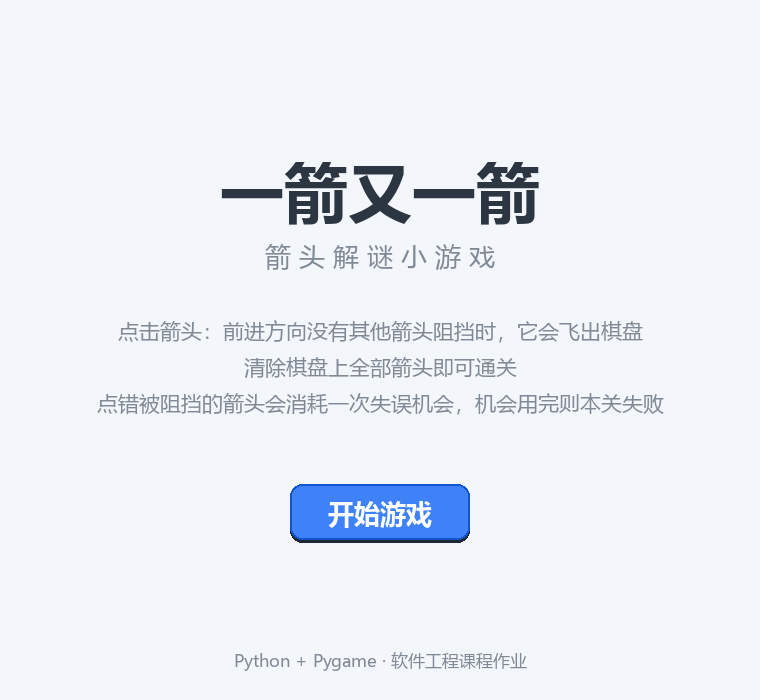
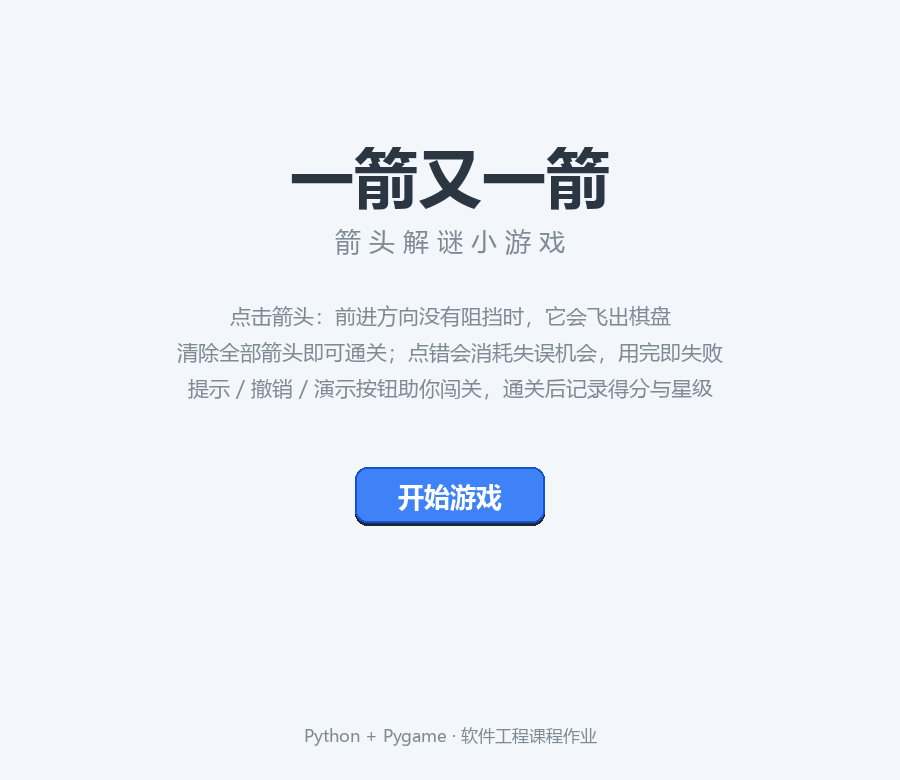
docs: 更新README和博客并重新生成截图

Changed region(s): [[0.1211, 0.18, 0.8776, 0.78], [0.3026, 0.93, 0.6961, 0.96]]

diff --git a/博客.md b/博客.md
@@ -16,21 +16,25 @@
 
 ![开始界面](screenshots/01_start.png)
 
-游戏界面（第二关，顶部显示关卡名、剩余箭头、剩余失误，下方为提示/重新开始/主菜单按钮）：
+关卡选择界面（8 个关卡 + 无尽模式，卡片上显示历史最佳星级与解锁进度）：
 
-![游戏界面](screenshots/02_playing.png)
+![关卡选择](screenshots/02_level_select.png)
 
-碰撞反馈：点击被阻挡的箭头后，箭头原地晃动并闪烁红色，弹出"被阻挡！"提示，同时圈出阻挡它的那支箭头，失误次数 -1：
+游戏界面（顶部 HUD 显示关卡、用时、实时得分、剩余箭头与失误；底部为提示/撤销/演示/重新开始/主菜单按钮）：
 
-![碰撞反馈](screenshots/03_collision.png)
+![游戏界面](screenshots/03_playing.png)
 
-通关界面（按剩余失误机会给出星级评价）：
+碰撞反馈：点击被阻挡的箭头后，箭头原地晃动并摇摆、格子红色闪烁，弹出"被阻挡！"提示，同时圈出阻挡它的那支箭头，失误次数 -1：
 
-![通关界面](screenshots/04_win.png)
+![碰撞反馈](screenshots/04_collision.png)
+
+通关界面（得分、用时与星级评价）：
+
+![通关界面](screenshots/05_win.png)
 
 失败界面：
 
-![失败界面](screenshots/05_fail.png)
+![失败界面](screenshots/06_fail.png)
 
 第一关自动通关演示 GIF：
 
@@ -53,13 +57,23 @@
 
 ### 主要功能和特色
 
+**基础功能**：
 - **路径检测**：四方向逐格探测，正确区分"前方阻挡"与"身后箭头"；
-- **碰撞反馈**：晃动 + 红色闪烁 + 浮动文字 + 圈出阻挡箭头，四种提示叠加，一眼看懂为什么点不动；
-- **提示功能**：内置求解器，可高亮一支当前安全的箭头（附加功能）；
-- **星级评价**：通关后按剩余失误机会给出 1~3 星（附加功能）；
+- **碰撞反馈**：晃动 + 摇摆 + 红色闪烁 + 浮动文字 + 圈出阻挡箭头，五种提示叠加，一眼看懂为什么点不动；
 - **程序合成音效**：飞出、碰撞、通关、失败音效全部由代码实时合成，无任何外部素材；
 - **关卡可解性验证**：每个关卡都经过自动化测试确认存在可行消除顺序；
 - **纯逻辑与界面分离**：核心逻辑不依赖 pygame，可独立单元测试。
+
+**扩展功能（附加分）**：
+- **关卡选择**：8 个关卡 + 选择界面，卡片显示星级与解锁进度，通关推进解锁；
+- **得分、计时与星级**：HUD 实时显示用时和得分（消除数 × 50 + 时间奖励 + 剩余失误奖励），通关界面展示成绩并记录历史最佳；
+- **提示功能**：内置求解器，高亮一支当前安全的箭头；
+- **撤销上一步**：每次点击前压入状态快照，一键撤销（恢复箭头和失误次数）；
+- **保存游戏进度**：save.json 自动保存解锁进度、最佳成绩和进行到一半的对局，开始界面提供"继续游戏"；
+- **随机生成可通关的关卡**：逆序放置算法保证生成关卡必然可解，作为"无尽模式"无限挑战；
+- **AI 自动求解**："演示"按钮让求解器自动演示当前关卡的完整通关步骤；
+- **动画与音效**：飞出拖尾 + 旋转 + 粒子爆发，碰撞晃动 + 摇摆 + 红闪；
+- **打包 exe**：PyInstaller 一键打包为免环境可执行文件。
 
 ## 三、实现思路
 
@@ -153,11 +167,42 @@ def solve(level):
 
 ### 3.5 动画实现
 
-- **飞出**：`FlyingArrow` 记录起点和方向，位置按 `k = 1 - (1 - t/T)^2` 缓动（先快后慢），最后 40% 路程逐渐淡出；
-- **碰撞**：`Collision` 让箭头原地做 `sin(t·55)·5·(1-k)` 的衰减正弦晃动，前 0.18 秒叠加红色半透明闪烁，另有 `FloatText` 上浮淡出文字和橙色圈标出阻挡箭头；
+- **飞出**：`FlyingArrow` 记录起点和方向，位置按 `k = 1 - (1 - t/T)^2` 缓动（先快后慢），飞行中整体旋转 180°，身后跟两个逐渐变小的残影形成拖尾，起点处爆发 8 个带重力粒子，最后 40% 路程逐渐淡出；
+- **碰撞**：`Collision` 让箭头原地做 `sin(t·55)·7·(1-k)` 的衰减正弦晃动并叠加 ±10° 摇摆，红色半透明闪烁画在**箭头下层**（保证箭头始终清晰可见，不会看起来像"消失"），另有 `FloatText` 上浮淡出文字和橙色脉动圈标出阻挡箭头；
 - **通关**：`WinScene` 喷射 50 个带重力的彩色粒子。
 
 箭头图形本身由代码绘制（朝右的底图 + 按方向旋转），音效由代码实时合成（正弦/方波 + 指数衰减包络），全程零外部素材。
+
+### 3.6 随机生成可通关的关卡
+
+无尽模式的关卡由"**逆序放置**"算法生成：按消除顺序的**逆序**逐支放置箭头，放置每支箭头时要求它的正前方路径上没有已放置的箭头。由于已放置的箭头都会在它之后才被消除，新箭头在自己的回合必然能飞出；放置完成时，**放置顺序的逆序就是一条合法的通关顺序**：
+
+```python
+def generate_random_level(grid_rows, grid_cols, count, rng):
+    placed = {}   # 已放置的箭头
+    arrows = []
+    for _ in range(count):
+        cells = [(r, c) for r in range(grid_rows) for c in range(grid_cols)
+                 if (r, c) not in placed]
+        rng.shuffle(cells)
+        for r, c in cells:
+            for d in rng.sample([UP, DOWN, LEFT, RIGHT], 4):
+                arrow = Arrow(r, c, d)
+                if find_blocker(placed, arrow, grid_rows, grid_cols) is None:
+                    arrows.append(arrow)
+                    placed[(r, c)] = arrow
+                    break
+            ...
+    return Level("无尽模式", grid_rows, grid_cols, arrows)
+```
+
+这个生成器一鱼三吃：单元测试对 20 组随机种子验证了"生成即必可解"的性质；第 6~8 关就是用它配合固定种子生成后人工挑选的；无尽模式则用它实时出题。
+
+### 3.7 撤销、存档与得分
+
+- **撤销**：`Game.click()` 在每次有效点击前把 `(棋盘快照, 失误数, 状态)` 压入历史栈（上限 200 条），`undo()` 弹栈还原。点击空格不产生历史，重新开始会清空历史；
+- **存档**：`game/save.py` 用 JSON 保存解锁进度、每关最佳星级/得分、无尽模式最高分以及进行到一半的对局（`mid_level`）。每次有效点击后序列化棋盘（箭头坐标+方向、失误数、用时），开始界面的"继续游戏"据此恢复；打包成 exe 后存档自动改存 exe 所在目录；
+- **得分**：`得分 = 消除数×50 + max(0, 600 - 用时×12) + 剩余失误×80`，通关时按失误次数折算 1~3 星，HUD 实时刷新。
 
 ## 四、AIGC 使用过程
 
@@ -189,9 +234,15 @@ def solve(level):
 | ------ | ------------------ | ------------------- | -------- | -------- |
 | 动画、音效与截图工具 | Claude Code | 实现四个场景的状态机、飞出/碰撞/粒子特效、程序合成音效、无头截图与 GIF 生成脚本 | 基本可用；调试中发现两个问题：① 碰撞截图的场景对象未切换到截图工具；② PIL 保存 GIF 时"与前一帧相同的帧"会被合并 | 修复场景切换 bug；确认 GIF 帧合并是 PIL 的优化行为（时长会累加到上一帧），播放节奏不受影响，保留该行为 |
 
+### 记录 5：扩展功能开发（附加分）
+
+| 子任务 | 借助何种 AIGC 技术 | AI 实现或提供了什么 | 效果如何 | 人工修改 |
+| ------ | ------------------ | ------------------- | -------- | -------- |
+| 关卡选择/得分/撤销/存档/随机生成/AI 演示/打包 | Claude Code | 设计并实现关卡选择界面、得分计时公式、撤销历史栈、save.json 存档、逆序放置随机生成算法、"演示"自动求解按钮、PyInstaller 打包脚本；补充对应单元测试 | 新增 20 个测试全部通过；冒烟测试覆盖选择→通关→撤销→演示→无尽→断点续玩→失败全流程；打包出可独立运行的 exe | 用固定种子挑选第 6~8 关布局并逐一试玩；得分公式的边界用例（未消除任何箭头时得分下限）在测试中发现与预期不符，修正测试断言并确认公式行为合理 |
+
 ## 五、测试结果
 
-采用**自动化测试**（`python -m unittest discover -s tests -v`），共 14 个用例，覆盖作业要求的全部测试项：
+采用**自动化测试**（`python -m unittest discover -s tests -v`），共 34 个用例，覆盖作业要求的全部测试项：
 
 | 编号 | 测试内容 | 预期结果 | 实际结果 | 是否通过 |
 | ---- | -------- | -------- | -------- | -------- |
@@ -201,12 +252,18 @@ def solve(level):
 | T04 | 消除本关全部箭头 | 显示通关并进入下一关 | 状态变为 cleared，剩余 0 | ✅ 通过 |
 | T05 | 失误次数耗尽 | 显示失败并允许重新开始 | 状态变为 failed，失误归零 | ✅ 通过 |
 | T06 | 游戏进行中重新开始 | 箭头布局和失误次数恢复 | 布局与失误次数完全复原 | ✅ 通过 |
-| T07 | 每个关卡存在通关顺序 | 5 个关卡全部可解 | 求解器为每关找到完整消除顺序 | ✅ 通过 |
+| T07 | 每个关卡存在通关顺序 | 8 个关卡全部可解 | 求解器为每关找到完整消除顺序 | ✅ 通过 |
 | T08 | 求解序列逐步合法性 | 每步点击的箭头当时均无阻挡 | 逐步模拟全部合法，最后清空 | ✅ 通过 |
+| T09 | 撤销上一步 | 恢复被消除的箭头和已消耗的失误 | 碰撞后撤销恢复失误，飞出后撤销恢复箭头 | ✅ 通过 |
+| T10 | 撤销边界情况 | 无历史时撤销返回失败；空格点击不产生历史 | 行为符合预期 | ✅ 通过 |
+| T11 | 随机生成关卡可解 | 任意种子生成的关卡都有通关顺序 | 20 组随机种子全部可解，箭数正确 | ✅ 通过 |
+| T12 | 得分计算 | 用时越短、失误越少得分越高，且非负 | 各边界用例符合预期 | ✅ 通过 |
+| T13 | 存档读写 | 保存后能完整读回，缺文件/损坏时回退默认 | 读写往返一致，容错正常 | ✅ 通过 |
 | 附加 | 互相阻挡的环（A↔B） | 求解器判定不可解 | 正确返回无解 | ✅ 通过 |
 | 附加 | 点击空格 | 不消耗失误机会 | 无惩罚，状态不变 | ✅ 通过 |
+| 附加 | 扩展功能冒烟测试 | 关卡选择→通关→撤销→AI 演示→无尽模式→断点续玩→失败全流程正常 | 全部通过（含存档恢复） | ✅ 通过 |
 
-另外完成了手工测试：5 个关卡逐一实机试玩，确认难度递进合理、动画流畅、按钮功能正常（运行 `python main.py` 即可复现）。
+另外完成了手工测试：8 个关卡逐一实机试玩，确认难度递进合理、动画流畅、按钮功能正常（运行 `python main.py` 即可复现）。
 
 ## 六、PSP 表格
 
@@ -217,21 +274,24 @@ def solve(level):
 | 游戏界面实现 | 4.0 | 3.0 | -1.0 |
 | 路径与碰撞逻辑实现 | 3.0 | 2.5 | -0.5 |
 | 关卡设计 | 1.5 | 2.0 | +0.5 |
-| AIGC 辅助开发 | 3.0 | 4.0 | +1.0 |
-| 测试与修改 | 2.0 | 1.5 | -0.5 |
+| 扩展功能开发 | 4.0 | 4.5 | +0.5 |
+| AIGC 辅助开发 | 3.0 | 4.5 | +1.5 |
+| 测试与修改 | 2.0 | 2.5 | +0.5 |
 | README 与博客撰写 | 2.0 | 2.0 | 0 |
-| 合计 | 18.5 | 16.3 | -2.2 |
+| 合计 | 22.5 | 22.3 | -0.2 |
 
-说明：与预估相比，"Python 与图形库学习"大幅缩短（AIGC 直接给出可运行的示例代码，学习成本降低）；"关卡设计"和"AIGC 辅助开发"超出预估，主要花在反复迭代修复关卡中的环、以及调试截图/动画等细节问题上——这也说明 AIGC 生成的内容必须经过验证才能使用。
+说明：与预估相比，"Python 与图形库学习"大幅缩短（AIGC 直接给出可运行的示例代码，学习成本降低）；"扩展功能开发"和"AIGC 辅助开发"超出预估，主要花在反复迭代修复关卡中的环、扩展功能的多轮设计调整，以及调试截图/动画等细节问题上——这也说明 AIGC 生成的内容必须经过验证才能使用。
 
-## 七、心得体会
+## 7. 心得体会
 
-这次作业最大的收获有三点：
+这次作业最大的收获有四点：
 
 1. **AIGC 改变了"从零开始"的学习方式，但验证责任在自己**。AI 帮我快速搭起 pygame 的界面框架、生成路径检测代码，我不再需要先啃完文档再动手；但 AI 生成的关卡数据里藏着三处"互相阻挡的环"，如果没有自动化验证，交上去的会是一个无法通关的游戏。**"AI 生成 → 测试验证 → 人工修改"**的循环才是正确用法。
 
-2. **好的架构让测试变得自然**。把路径检测、状态机等纯逻辑放进不依赖 pygame 的 `model.py`，单元测试就可以直接覆盖 T01~T08；而界面层只管"根据返回值播动画"。这种分层思想是我这次代码结构上最大的收获。
+2. **好的架构让测试变得自然**。把路径检测、状态机、随机生成等纯逻辑放进不依赖 pygame 的 `model.py`，单元测试就可以直接覆盖全部游戏规则；而界面层只管"根据返回值播动画"。扩展功能开发时，撤销栈、得分公式、存档读写都能在纯逻辑层先行测试，界面只是薄薄一层。
 
-3. **求解器一石三鸟**。一个贪心求解器同时服务于关卡可解性验证、游戏内"提示"按钮和自动演示 GIF，让我体会到"写一段代码解决多个问题"的乐趣——这其实也是"消除问题"本身的拓扑排序思想。
+3. **求解器一鱼三吃**。一个贪心求解器同时服务于关卡可解性验证、游戏内"提示"按钮、"演示"自动通关和自动演示 GIF，让我体会到"写一段代码解决多个问题"的乐趣——这其实也是"消除问题"本身的拓扑排序思想。
 
-不足与展望：目前动画还比较简单，可以进一步加入箭头旋转飞出、连击特效；关卡只有 5 个，将来可以利用"逆序放置"算法随机生成保证可通关的关卡。
+4. **"逆序放置"是这次最有趣的算法**。随机生成关卡时，如果先想"怎么生成"很容易陷入"生成完还要验证可解"的困境；换个方向——按消除顺序的逆序放置、每步保证路径干净——可解性就变成了构造本身的副产品。先想清楚"解应该长什么样"，再反过来构造题目，这个思路值得记住。
+
+不足与展望：无尽模式的难度还没有分级（箭数随机 12~18），可以按连续通关数递增箭数；动画方面可以加入连击特效；博客中的 PSP 数据为开发过程的估算，实际数值以个人记录为准。

diff --git a/README.md b/README.md
@@ -8,10 +8,22 @@
 
 - **点击箭头**：若箭头前进方向（同一行/同一列）上、到棋盘边界之间没有其他箭头阻挡，该箭头会**飞出棋盘**并被消除；
 - **被阻挡时**：箭头无法飞出，会原地晃动并闪烁红色提示，同时**消耗一次失误机会**；
-- **通关条件**：清除棋盘上全部箭头；
+- **通关条件**：清除棋盘上全部箭头，按失误次数获得 1~3 星评价；
 - **失败条件**：失误机会（每关 3 次）耗尽。
 
-游戏共 5 个手工设计、经过求解器验证保证可通关的关卡，难度循序渐进。
+游戏共 8 个关卡（第 6~8 关由随机生成器 + 固定种子生成），全部经过求解器验证保证可通关，难度循序渐进；另有**无尽模式**可挑战随机生成的关卡。
+
+## 主要功能
+
+| 类别 | 功能 |
+| ---- | ---- |
+| 基础玩法 | 四方向路径检测、飞出/碰撞动画、失误机制、通关/失败流程、重新开始 |
+| 关卡系统 | 8 个关卡 + 关卡选择界面（星级、解锁进度）+ 无尽模式 |
+| 辅助功能 | 提示（高亮安全箭头）、撤销上一步、AI 演示（自动求解通关） |
+| 计分系统 | 实时计时与得分，通关界面显示得分/用时/星级，记录历史最佳 |
+| 进度存档 | save.json 自动保存解锁进度、最佳成绩与进行到一半的对局（继续游戏） |
+| 随机关卡 | 逆序放置算法生成**保证可通关**的随机关卡 |
+| 视听效果 | 飞出拖尾+旋转、粒子爆发、碰撞晃动+摇摆+红闪、程序合成音效 |
 
 ## 开发环境
 
@@ -32,16 +44,27 @@ pip install -r requirements.txt
 python main.py
 ```
 
+### 打包为可执行文件（可选）
+
+```bash
+pip install pyinstaller
+tools\build_exe.bat          # 输出 dist\ArrowArrow.exe，双击即可运行
+```
+
+打包后的 exe 不依赖 Python 环境；游戏存档 save.json 保存在 exe 所在目录。
+
 ## 游戏操作说明
 
 | 操作 | 说明 |
 | ---- | ---- |
-| 鼠标点击箭头 | 前方无阻挡：箭头飞出棋盘；前方有阻挡：晃动 + 红色闪烁，失误次数 -1 |
+| 鼠标点击箭头 | 前方无阻挡：箭头飞出棋盘；前方有阻挡：晃动 + 摇摆 + 红闪，失误次数 -1 |
 | `提示` 按钮 | 高亮一支当前可以安全消除的箭头（金色呼吸圈） |
-| `重新开始` 按钮 | 当前关卡恢复到初始状态（箭头布局和失误次数全部复原） |
+| `撤销` 按钮 | 撤销上一步操作（恢复箭头和失误次数） |
+| `演示` 按钮 | AI 自动求解当前关卡，自动演示通关步骤（再次点击停止） |
+| `重新开始` 按钮 | 当前关卡恢复到初始状态 |
 | `主菜单` 按钮 | 返回开始界面 |
 
-界面分为开始界面、游戏界面、通关界面和失败界面。游戏界面顶部显示当前关卡、剩余箭头数量和剩余失误次数；碰撞时还会圈出阻挡你的那支箭头。通关界面按剩余失误机会给出 1~3 星评价。
+游戏界面顶部显示当前关卡、剩余箭头、剩余失误、用时和实时得分；碰撞时还会圈出阻挡你的那支箭头。通关界面显示得分、用时与星级，并自动记录历史最佳成绩。
 
 ## 游戏截图
 
@@ -49,21 +72,25 @@ python main.py
 
 ![开始界面](screenshots/01_start.png)
 
-游戏界面（第二关）：
+关卡选择界面（星级与解锁进度）：
 
-![游戏界面](screenshots/02_playing.png)
+![关卡选择](screenshots/02_level_select.png)
 
-碰撞反馈（箭头晃动 + 红色闪烁 + "被阻挡！"提示，并圈出阻挡箭头）：
+游戏界面（HUD 显示关卡、用时、得分、剩余箭头与失误）：
 
-![碰撞反馈](screenshots/03_collision.png)
+![游戏界面](screenshots/03_playing.png)
 
-通关界面：
+碰撞反馈（箭头晃动 + 摇摆 + 红色闪烁 + "被阻挡！"提示，并圈出阻挡箭头）：
 
-![通关界面](screenshots/04_win.png)
+![碰撞反馈](screenshots/04_collision.png)
+
+通关界面（得分、用时、星级）：
+
+![通关界面](screenshots/05_win.png)
 
 失败界面：
 
-![失败界面](screenshots/05_fail.png)
+![失败界面](screenshots/06_fail.png)
 
 第一关自动通关演示：
 
@@ -75,19 +102,22 @@ python main.py
 ├── main.py                  # 游戏入口
 ├── game/
 │   ├── config.py            # 窗口/棋盘/颜色/动画参数
-│   ├── model.py             # 核心逻辑：Arrow、路径检测、求解器、Game 状态机
-│   ├── levels.py            # 5 个关卡数据
+│   ├── model.py             # 核心逻辑：Arrow、路径检测、求解器、随机生成、得分、Game 状态机
+│   ├── levels.py            # 8 个关卡数据（含随机生成的 6~8 关）
+│   ├── save.py              # 进度存档（JSON 读写）
 │   ├── assets.py            # 中文字体、箭头绘制、程序合成音效
 │   ├── ui.py                # Button 控件
-│   └── app.py               # 四个场景 + 飞出/碰撞动画 + 主循环
+│   └── app.py               # 五个场景 + 飞出/碰撞动画 + 主循环
 ├── tests/
-│   └── test_model.py        # 单元测试 T01~T08
+│   ├── test_model.py        # 单元测试（路径检测/流程/求解/撤销/生成/得分）
+│   └── test_save.py         # 存档模块测试
 ├── tools/
-│   └── make_screenshots.py  # 无头生成截图与演示 GIF
+│   ├── make_screenshots.py  # 无头生成截图与演示 GIF
+│   └── build_exe.bat        # PyInstaller 打包脚本
 └── screenshots/             # 截图与 GIF（由工具生成）
 ```
 
-核心逻辑（[game/model.py](game/model.py)）与界面（[game/app.py](game/app.py)）分离，路径检测、求解器等纯逻辑不依赖 pygame，可以直接单元测试。
+核心逻辑（[game/model.py](game/model.py)）与界面（[game/app.py](game/app.py)）分离，路径检测、求解器、随机生成等纯逻辑不依赖 pygame，可以直接单元测试。
 
 ## 运行测试
 
@@ -95,7 +125,11 @@ python main.py
 python -m unittest discover -s tests -v
 ```
 
-14 个测试用例全部通过，覆盖：四方向路径检测、边界处理、碰撞与失误机制、通关/失败判定、重新开始、以及全部关卡的**可解性验证**（保证每关都存在可行的消除顺序）。
+34 个测试用例全部通过，覆盖：四方向路径检测、边界处理、碰撞与失误机制、通关/失败判定、重新开始、全部关卡的**可解性验证**、撤销、随机生成关卡的可解性、得分计算与存档读写。
+
+## 随机关卡生成算法
+
+无尽模式使用"**逆序放置**"算法生成关卡：按消除顺序的逆序逐支放置箭头，放置每支箭头时保证其正前方路径上没有已放置的箭头——由于已放置的箭头都会在它之后才被消除，这样生成的关卡必然存在通关顺序（放置顺序的逆序即为一组解）。该性质由单元测试对多组随机种子进行了验证。
 
 ## 声明
 
